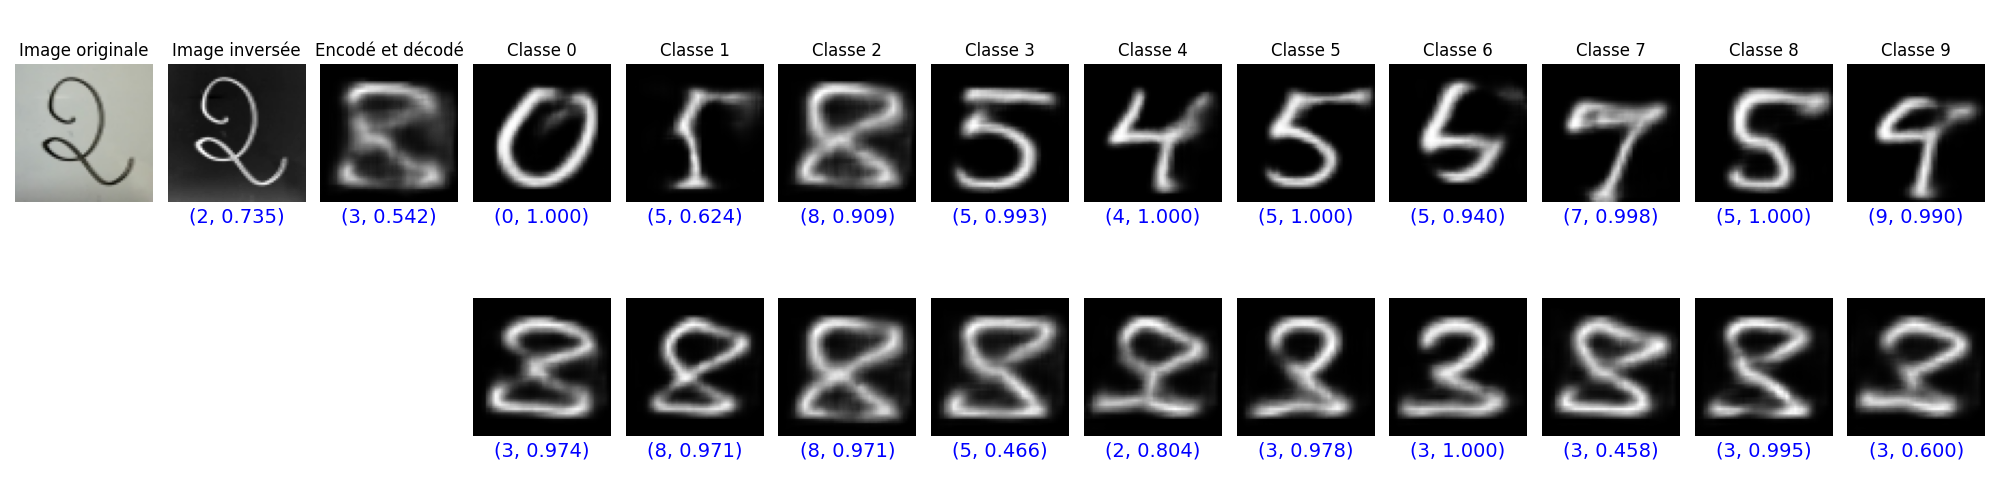
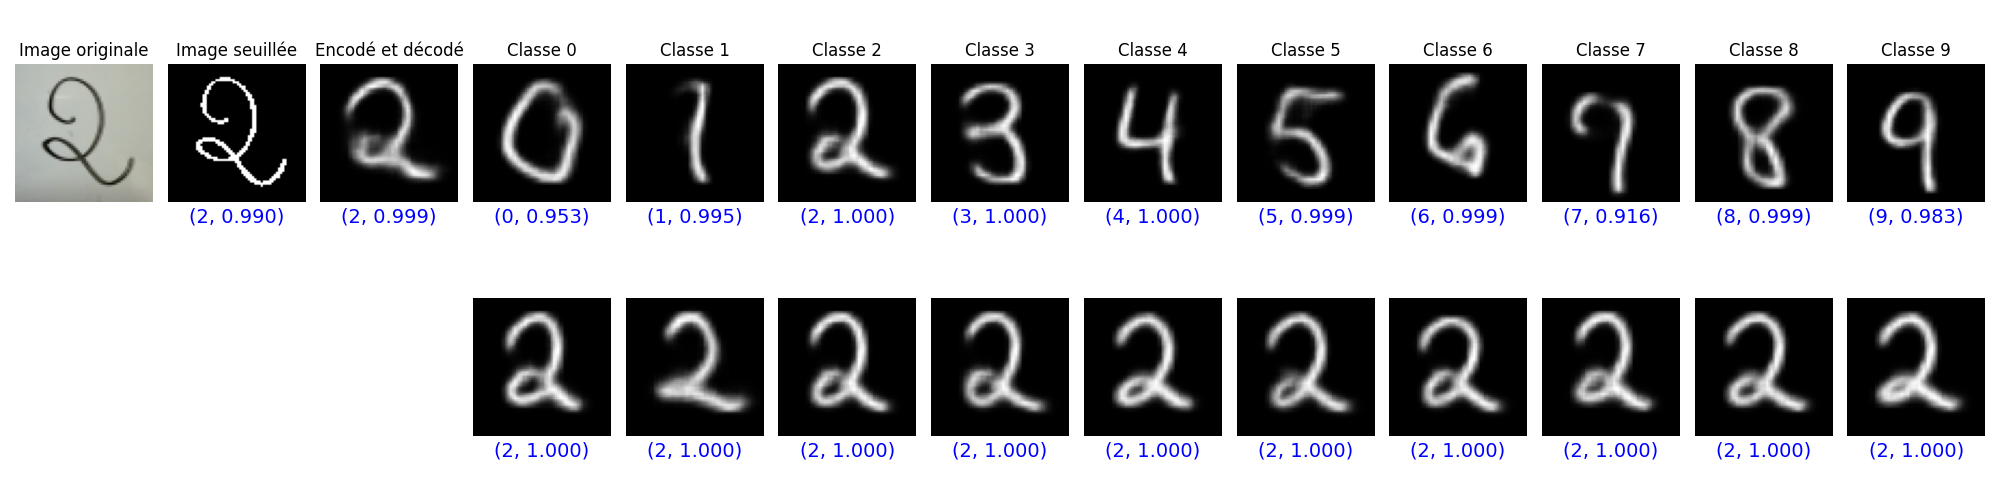
Added results

diff --git a/Code/MNIST/MNIST_BetaVAE_Translate_Single.py b/Code/MNIST/MNIST_BetaVAE_Translate_Single.py
@@ -1,11 +1,14 @@
 import numpy as np
 import matplotlib.pyplot as plt
+from matplotlib.colors import Normalize
 
 from keras.datasets import mnist
 
 import tensorflow.keras.backend as K
 import tensorflow as tf
 from tensorflow.keras.models import load_model
+
+from sklearn.manifold import TSNE
 
 import cv2
 
@@ -53,7 +56,7 @@ axes[0, 0].set_title("Image originale")
 axes[0, 0].axis("off")
 
 axes[0, 1].imshow(image[0], cmap="gray")
-axes[0, 1].set_title("Image inversée")
+axes[0, 1].set_title("Image seuillée")
 axes[0, 1].axis("off")
 
 decoded = decoder.predict(predicted, batch_size = batch_size)
@@ -83,10 +86,13 @@ guessed_class, p, linp = utils.classify(decoded, classifier)
 axes[0, 2].text(0.5, -0.15, f"({guessed_class}, {p.max():.3f})", fontsize=14, color="blue", ha="center", transform=axes[0, 2].transAxes)
 
 mean_encoded_src = encoded_means[src_class]
+translated_encoded = []
 for dst_class in range(10):
     mean_encoded_dst = encoded_means[dst_class]
     translation = mean_encoded_dst - mean_encoded_src
     translated = predicted + translation
+    if dst_class != src_class:
+        translated_encoded.append(translated)
     decoded = decoder.predict(translated, batch_size=batch_size)
 
     im = axes[0, dst_class + 3].imshow(decoded[0], cmap="gray")
@@ -115,5 +121,61 @@ for dst_class in range(10):
 
 #utils.pred_classes(fig)
 
+translated_encoded = np.array(translated_encoded).squeeze()
+
 plt.tight_layout()
 plt.savefig("./Results/mnist-translated-image.png")
+
+X_encoded_classes = encoder.predict(X_valid)
+X_encoded = np.concatenate((X_encoded_classes, predicted, translated_encoded, encoded_means.squeeze()))
+
+tsne = TSNE(n_components = 2, random_state = 1337, max_iter = 300)
+X_tsne_full = tsne.fit_transform(X_encoded)
+X_tsne = X_tsne_full[:-20]
+X_predicted = X_tsne_full[-20]
+X_translated = X_tsne_full[-19:-10]
+X_encoded_means = X_tsne_full[-10:]
+
+plt.figure(figsize=(8, 8))
+
+scatter = plt.scatter(
+    X_tsne[:, 0],
+    X_tsne[:, 1],
+    c=Y_valid,
+    cmap="Paired",
+    alpha=0.35,
+    s=20
+)
+
+unique_classes = np.unique(Y_valid)
+norm = Normalize(vmin = min(unique_classes), vmax = max(unique_classes))
+
+for class_label in unique_classes:
+    plt.scatter([], [], color=plt.cm.Paired(norm(class_label)), label=str(class_label))
+
+for i in range(9):
+    plt.scatter(X_predicted[0], X_predicted[1], marker="+", color="red", s=150)
+    plt.scatter(X_translated[i][0], X_translated[i][1], marker="+", color="blue", s=150)
+
+    plt.arrow(X_predicted[0], X_predicted[1],
+            X_translated[i][0] - X_predicted[0],
+            X_translated[i][1] - X_predicted[1],
+            color="purple", width=0.01, head_width=0.2, length_includes_head=True)
+
+plt.scatter([], [], marker="+", color="red", s=150, label="Image source")
+plt.scatter([], [], marker="+", color="blue", s=150, label="Image translatée")
+
+plt.scatter(
+    X_encoded_means[:, 0],
+    X_encoded_means[:, 1],
+    color="black",
+    marker='x',
+    s=100,
+    linewidths=2,
+    label="Centroïde"
+)
+
+plt.title(f"t-SNE : Translations de l'image réelle vers d'autres classes")
+plt.legend()
+plt.tight_layout()
+plt.savefig(f"./Results/mnist-translation-single-translation-tsne.png")

diff --git a/Code/MNIST/MNIST_BetaVAE_Translation_Confusion.py b/Code/MNIST/MNIST_BetaVAE_Translation_Confusion.py
@@ -40,7 +40,6 @@ total_certainties = []
 for src_class in range(10):
     certainties = []
 
-    plt.figure(figsize=(10, 8))
     conf_matrix = np.zeros((10, 10), dtype=int)
 
     digits = X_reencoded_valid[Y_valid == src_class]
@@ -72,6 +71,7 @@ for src_class in range(10):
     accuracy = np.trace(conf_matrix) / np.sum(conf_matrix)
     average_certainty = np.mean(certainties)
 
+    plt.figure(figsize=(10, 8))
     plt.suptitle(f"Classe source {src_class}", fontsize=22)
     plt.title(f"Précision : {accuracy:.2%} - Certitude moyenne : {average_certainty:.2%}", fontsize=14)
 

diff --git a/Code/MNIST/MNIST_BetaVAE_Translation_Grid.py b/Code/MNIST/MNIST_BetaVAE_Translation_Grid.py
@@ -25,8 +25,8 @@ X_valid = tf.image.resize(X_valid, (64, 64))
 
 batch_size = 32
 
-encoder = load_model("./Models/DISVAE/mnist-32-encoder.keras")
-decoder = load_model("./Models/DISVAE/mnist-32-decoder.keras")
+encoder = load_model("./Models/DISVAE/mnist-128-encoder.keras")
+decoder = load_model("./Models/DISVAE/mnist-128-decoder.keras")
 
 X_reencoded_valid = utils.encoded(X_valid, "valid_disvae", encoder, decoder, 3, batch_size)
 encoded_means = utils.encoded_means(X_train, Y_train, "encoded_means_disvae", encoder, decoder, 2, batch_size)
